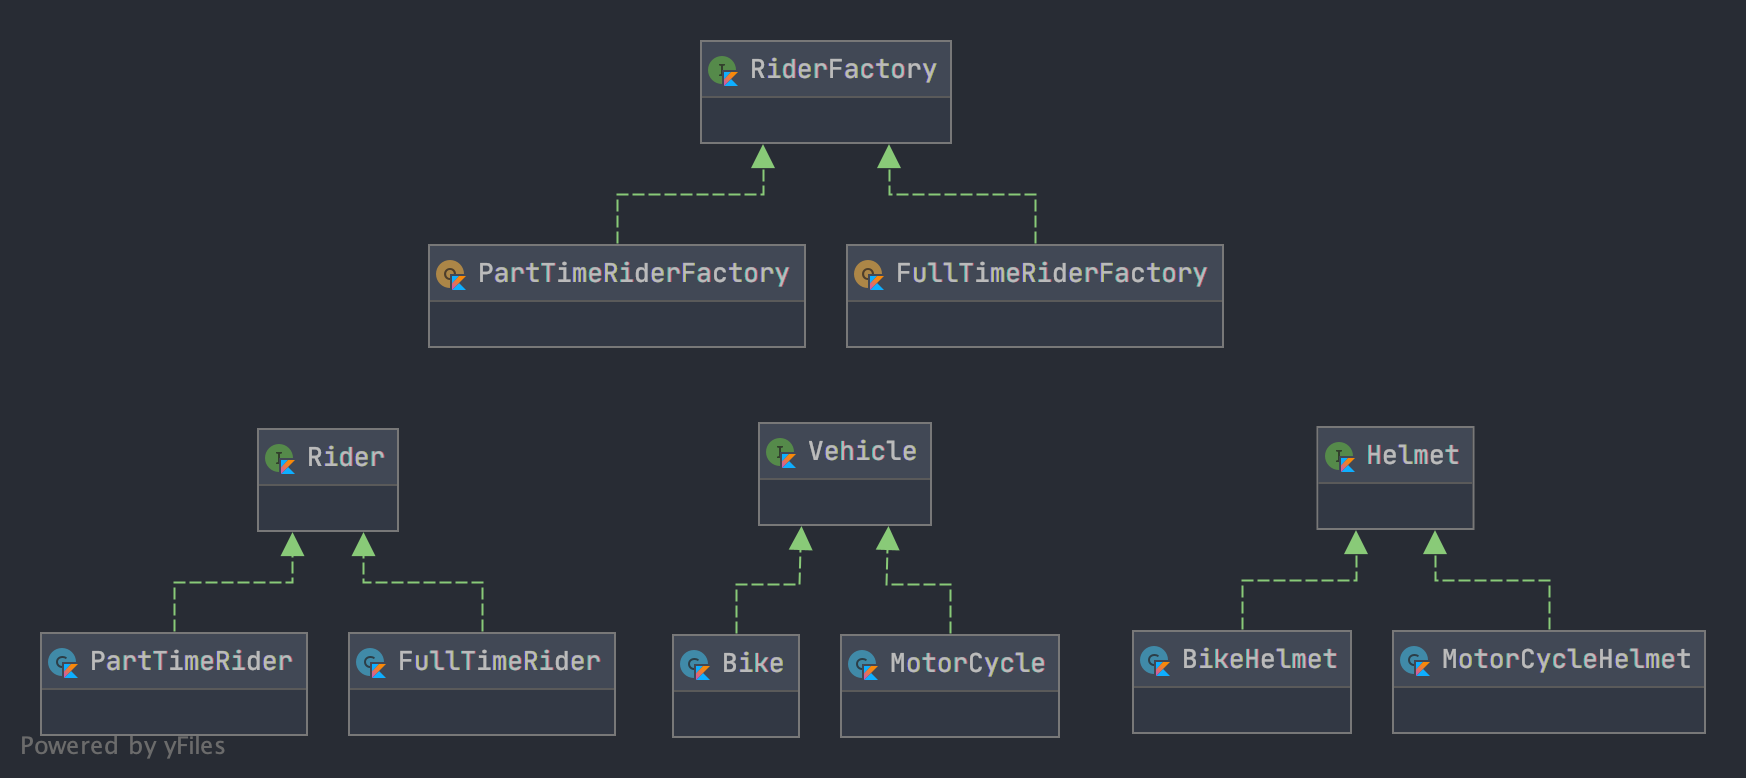
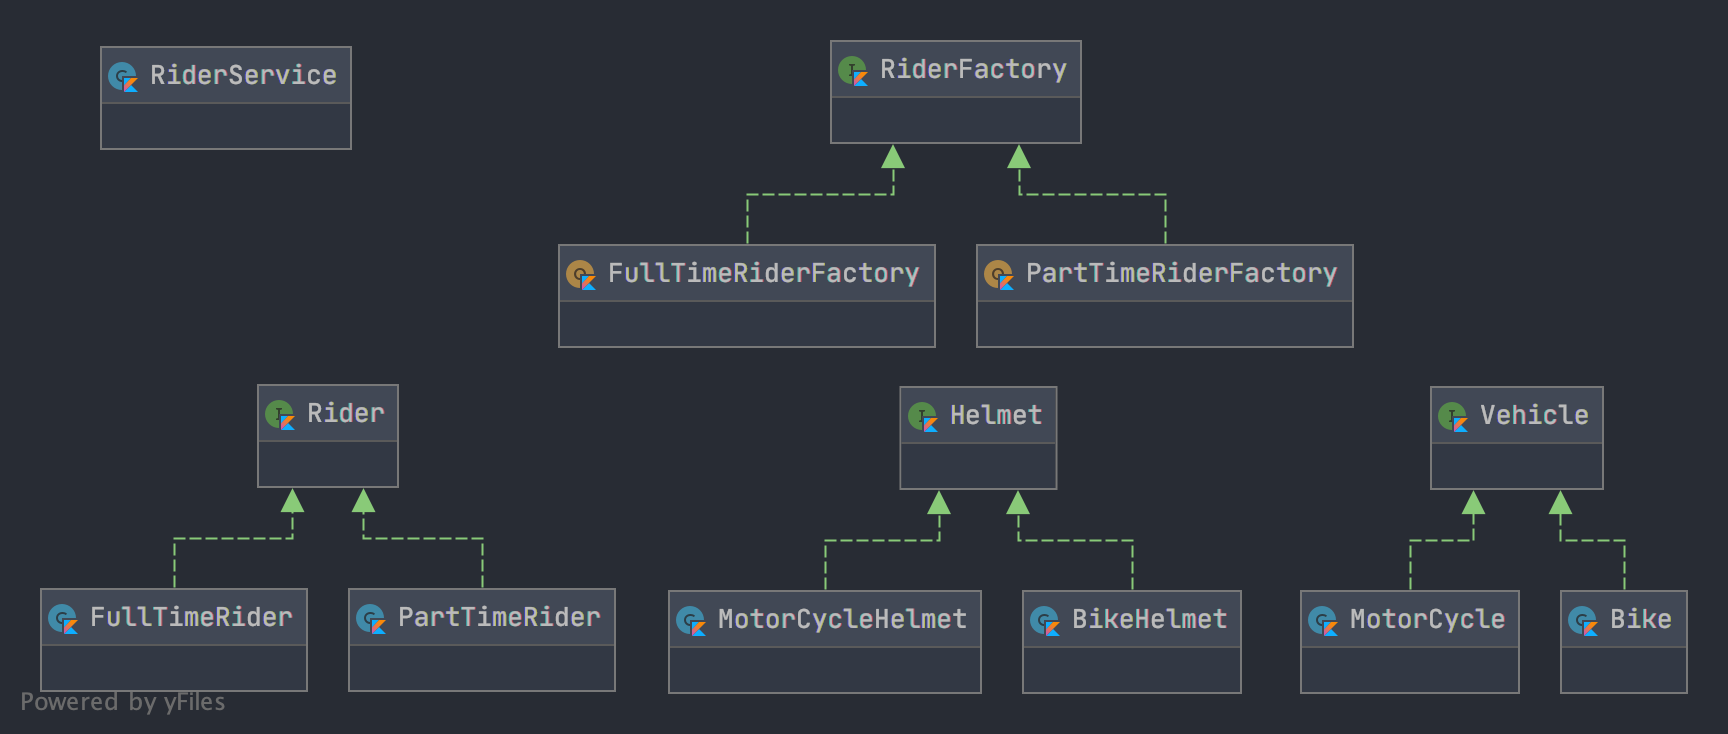
커맨드패턴 책임연쇠 패턴 추가

diff --git a/_posts/design-pattern/2020-05-16-command-pattern.md b/_posts/design-pattern/2020-05-16-command-pattern.md
@@ -1,0 +1,104 @@
+---
+layout: post
+title: "커맨드 패턴 - Command Pattern [디자인패턴]"
+description: 커맨드 패턴 - Command Pattern [디자인패턴]
+author: kimchanjung
+date: 2020-05-16 00:00:00 +0900
+categories: design pattern
+published: true
+---
+
+# 커맨드 패턴 - Command Pattern
+
+## 커맨드 패턴이란
+> 커맨드 패턴은 각각 형태가 다른 메소드를 추상화 하여 클라이언트가 사용할 수 있도록 하는 패턴
+
+## 이해를 돕기 위한 설명
+### 커맨트패턴 미적용
+```bash
+운전(타입)
+    if (타입 == 오토바이)
+        오토바이 오토바이 = 오토바이()
+        오토바이.시동()
+        오토바이.가속핸들돌린다()
+    else if (타입 == 자전거)
+        자전거 자전거 = 자전거()
+        자전거.페달을밟는다()
+    ...        
+```  
+
+- 오토바이와 자전거가 있다 두 탈 것 들은 운전하는 방법이 서로 다르다.
+- 오토바이는 시동을 건다, 가속핸들을 돌린다, 자전거는 페달을 밟는다.
+- 각 탈것 종류에 따라 운전하는 방법을 분기처리한다.
+- 탈 것이 추가 되면 코드 수정이 필요하다.
+
+### 커맨트 패턴 적용 
+```bash
+운전(배달명령)
+    배달명령.탈것운전()
+```  
+
+- 여러 탈것을 운전하는 행위를 탈것운전()이라는 메소드를 추상화 하여 클라이언트에게 제공한다.
+- 클라이언트는 배달명령이라는 일련의 메소드가 추상화된 배달명령의 탈것운전() 메소드만 사용한다.
+- 탈 것 종류가 추가 되어도 코드 변경은 없다.
+
+## 클래스 다이어그램
+![class-diagram](/post-img/design-pattern/command-pattern-class-diagram.png)
+
+
+## 예제코드
+### 오토바이/자전거 클래스
+
+```kotlin
+class MotorCycle {
+    fun start() = "오토바이시동"
+    fun accelerate() = "오토바이출발"
+}
+
+class Bike {
+    fun pedaling() = "자전거출발"
+}
+```
+### 명령 메소드를 추상화
+```kotlin
+interface DeliveryCommand {
+    fun driveVehicle(): String
+}
+
+class MotorCycleCommand(private var motorCycle: MotorCycle) : DeliveryCommand {
+    override fun driveVehicle() :String{
+       return motorCycle.start() + motorCycle.accelerate()
+    }
+}
+
+class BikeCommand : DeliveryCommand {
+    override fun driveVehicle() = bike.pedaling()
+}
+```
+
+### 클라이언트
+
+```kotlin
+class Rider(private var deliveryCommand: DeliveryCommand) {
+    fun changeDeliveryCommand(deliveryCommand: DeliveryCommand): Rider {
+        this.deliveryCommand = deliveryCommand
+        return this
+    }
+
+    fun delivery() = deliveryCommand.driveVehicle()
+}
+
+val motorCycleCommand = MotorCycleCommand(MotorCycle())
+val bikeCommand = BikeCommand(Bike())
+
+val rider = Rider(motorCycleCommand)
+
+// 오토바이를 운전한다.
+rider.delivery()
+// 자전거로 변경한다.
+rider.changeDeliveryCommand(bikeCommand)
+// 자전거를 운전한다.
+rider.delivery()
+```
+> 라이더 클라이언트는 분기문 없이 일관성있는 코드를 사용하며 로직변경이나 탈것의 추가에도 코드 수정에서 자유롭다. 
+

diff --git a/_posts/design-pattern/2020-05-14-adapter-pattern.md b/_posts/design-pattern/2020-05-14-adapter-pattern.md
@@ -1,9 +1,9 @@
 ---
 layout: post
 title: "어탭터 패턴 - Adapter Pattern [디자인패턴]"
-description: 어탭터 패턴 - Adapter Pattern [디자인패턴][디자인패턴]
+description: 어탭터 패턴 - Adapter Pattern
 author: kimchanjung
-date: 2020-05-20 00:00:00 +0900
+date: 2020-05-14 00:00:00 +0900
 categories: design pattern
 published: true
 ---
@@ -17,11 +17,6 @@ published: true
 
 ## 이해를 돕기위한 설명 
 ### 어댑터 패턴 미적용 시
-- 로그인기능이 있다 구글인증을 사용해 로그인 하다가 페이스북 인증이 추가 되었다.
-- 구글과 페이스북은 인증 절차가 상이하다.
-- 구글인증이 필요하면 구글객체를 생성하고 인증한다.
-- 페이스북인증이 필요하면 페이스북객체를 생성하고 인증한다.
-
 ```bash
 로그인(타입)
     if(타입 == 구글)
@@ -36,13 +31,13 @@ published: true
     ...
 ```
 
+- 로그인기능이 있다 구글인증을 사용해 로그인 하다가 페이스북 인증이 추가 되었다.
+- 구글과 페이스북은 인증 절차가 상이하다.
+- 구글인증이 필요하면 구글객체를 생성하고 인증한다.
+- 페이스북인증이 필요하면 페이스북객체를 생성하고 인증한다.
+
+
 ### 어댑터 패턴 적용
-- 나는 각각 필요한 인증업체의 인증 객체를 따로 사용하지 않고 만능 리모컨 같은
-하나의 인증서비스를 이용하고 싶다.
-- 어댑터 패턴을 이용하면 서로다른 인증업체의 객체를 추상화 하여 사용자에게
-- 일반화된 인터페이스를 제공함으로써 인증업체의 종류에 따라 별개의 객체를 할 필요가
-없어진다.
-- 인증업체가 추가 되거나 세부 로직이 변경되어도 클라이언트의 코드는 수정할 필요가 없다.
 
 ```bash
 로그인(로그인서비스)
@@ -50,6 +45,13 @@ published: true
     로그인서비스.인증()
     로그인서비스.리다이렉트()
 ```
+
+- 나는 각각 필요한 인증업체의 인증 객체를 따로 사용하지 않고 만능 리모컨 같은
+하나의 인증서비스를 이용하고 싶다.
+- 어댑터 패턴을 이용하면 서로다른 인증업체의 객체를 추상화 하여 사용자에게
+- 일반화된 인터페이스를 제공함으로써 인증업체의 종류에 따라 별개의 객체를 할 필요가
+없어진다.
+- 인증업체가 추가 되거나 세부 로직이 변경되어도 클라이언트의 코드는 수정할 필요가 없다.
 
 ## 장단점
 ### 클래스 방식 - 상속이용 
@@ -59,7 +61,7 @@ published: true
 장점 - 구성(Composition)을 사용하기 때문에 더 뛰어나다.(유연하다)  
 단점 - 어댑터(Adapter)클래스의 대부분의 코드를 구현해야하기때문에 효율적이지 못하다.
 
-## 클래스다이어 그램
+## 클래스 다이어그램
 ![class-diagram](/post-img/design-pattern/adapter-pattern-class-diagram.png)
 
 ## 예제코드

diff --git a/_posts/design-pattern/2020-05-15-chain-of-reponsibility-pattern.md b/_posts/design-pattern/2020-05-15-chain-of-reponsibility-pattern.md
@@ -1,0 +1,77 @@
+---
+layout: post
+title: "책임 연쇄 패턴 - Chain Of Reponsibility Pattern [디자인패턴]"
+description: 책임 연쇄 패턴 - Chain Of Reponsibility Pattern [디자인패턴]
+author: kimchanjung
+date: 2020-05-15 00:00:00 +0900
+categories: design pattern
+published: true
+---
+
+# 책임 연쇄 패턴 - Chain Of Reponsibility Pattern
+
+## 책임 연쇄 패턴이란
+> 요청을 처리를 하나이상의 체인형태로 구성된 객체에게 위임하고 요청을 처리할 수 있는 객체를 만날 때 까지 다음 객체로 처리를 위임하는 패턴
+
+
+## 장점
+- 요청의 처리 방식을 다음 객체로 위임 하면서 분기처리가 없어진다.
+- 요청의 처리를 layer 방식으 나누어 처리하므로 객체간 결합도를 낮춘다.
+ 
+## 단점
+- 요청을 처리하는 객체들을 어떻게 구성하느냐에 따라 요청이 처리 될수도 아닐 수도 있다.
+- 무한루프에 빠질 수 있으니 잘 고려해서 구성 해야함
+
+## 클래스 다이어그램
+![class-diagram](/post-img/design-pattern/chain-of-responsibility-pattern-class-diagram.png)
+## 예제코드
+
+### 처리객체
+```kotlin
+interface Rider {
+    fun delivery(foodType: String): String
+}
+
+class FullTimeRider(var next: Rider?) : Rider {
+    override fun delivery(foodType: String) =
+            if (foodType == "양식") "양식배달" else next!!.delivery(foodType)
+}
+
+class PartTimeRider(var next: Rider?) : Rider {
+    override fun delivery(foodType: String) =
+            if (foodType == "한식") "한식배달" else next!!.delivery(foodType)
+}
+
+class ConnectRider(var next: Rider?) : Rider {
+    override fun delivery(foodType: String) =
+            if (foodType == "분식") "분식배달" else next!!.delivery(foodType)
+}
+```
+> 처리할 수 없으면 다음 객체에 처리를 넘긴다.  
+> 처리의 전체적인 구성은 인스턴스 생성시 어떻게 다음 객체들을 구성 했느냐에 따라 달라진다.  
+
+### 클라이언트
+```kotlin
+
+class RiderService {
+    // 정규직 > 파트타임 > 배민커넥트 순으로 처리객체를 구성한다.
+    val rider = FullTimeRider(PartTimeRider(ConnectRider(null)))
+
+    fun delivery(foodType:String): String {
+        // 분기 처리가 사라진다. 
+        // if (foodType == "양식")
+        //     val fullTimeRider = FullTimeRider()
+        //     fullTimeRider.delivery()
+        // else if (oodType == "한식")
+        //     val partTimeRider = PartTimeRider()
+        //     partTimeRider.delivery()
+        // else
+        // ....    
+        return rider.delivery(foodType)
+    }  
+}
+
+val riderService = RiderService()
+
+val delivery = riderService.delivery("분식")
+```

diff --git a/_posts/design-pattern/2020-05-13-abstract-factory-pattern.md b/_posts/design-pattern/2020-05-13-abstract-factory-pattern.md
@@ -1,7 +1,7 @@
 ---
 layout: post
 title: "추상팩토리 패턴 - Abstract Factory Pattern [디자인패턴]"
-description: 추상팩토리 패턴 - Abstract Factory Pattern [디자인패턴]
+description: 추상팩토리 패턴 - Abstract Factory Pattern
 author: kimchanjung
 date: 2020-05-13 00:00:00 +0900
 categories: design pattern
@@ -15,11 +15,6 @@ published: true
 
 ## 이해를 돕기위한 설명
 ### 추상팩토리 패턴 미적용 
-- 고용형태가 각각 다른 음식배달라이더가 있다 정규직, 파트타임
-- 라이더를 생성하기 위해서 고용, 헬멧구입, 이동수단구입 등의 메소드는 동일하지만 세부 구현은 다르다.
-- 구성은 같지만 라이터의 타입이 다르면 개별로 객체생성과 메소드를 호출 해야한다.  
-- 라이터타입이 늘어나면 분기문도 늘어나고 코드도 수정해야한다.  
-
 ```bash
 라이더생성(라이더타입)
     if (라이터타입 == 정규직)
@@ -34,18 +29,23 @@ published: true
         파트타임.이동수단()
     else if ()
      ...
-```
+```  
+
+- 고용형태가 각각 다른 음식배달라이더가 있다 정규직, 파트타임
+- 라이더를 생성하기 위해서 고용, 헬멧구입, 이동수단구입 등의 메소드는 동일하지만 세부 구현은 다르다.
+- 구성은 같지만 라이터의 타입이 다르면 개별로 객체생성과 메소드를 호출 해야한다.  
+- 라이터타입이 늘어나면 분기문도 늘어나고 코드도 수정해야한다.  
 
 ### 추상팩토리 패턴 적용
-- 분기 처리 없이 일관성있게 라이더의 업무를 지시한다
-- 라이더타입이 늘어나도 코드 수정이 없다.
-
 ```bash
 라이더생성(라이더)
     라이더.고용()
     라이더.헬멧()
     라이더.이동수단()
-```
+```  
+
+- 분기 처리 없이 일관성있게 라이더의 업무를 지시한다
+- 라이더타입이 늘어나도 코드 수정이 없다.
 
 ## 장점
 - 객체생성을 팩토리에 위임 느슨한결합
@@ -60,7 +60,7 @@ published: true
   정규직라이더 -> 배달, 헬멧착용, 이동, 인데 생필품배달 이라는 메소드가 생기면 
   정규직, 파트타임 전부 생필품배달 메소드를 추가해야함 
 
-## 클래스다이어 그램
+## 클래스 다이어그램
 ![class-diagram](/post-img/design-pattern/abstract-pattern-class-diagram.png)
 ## 예제 코드
 
